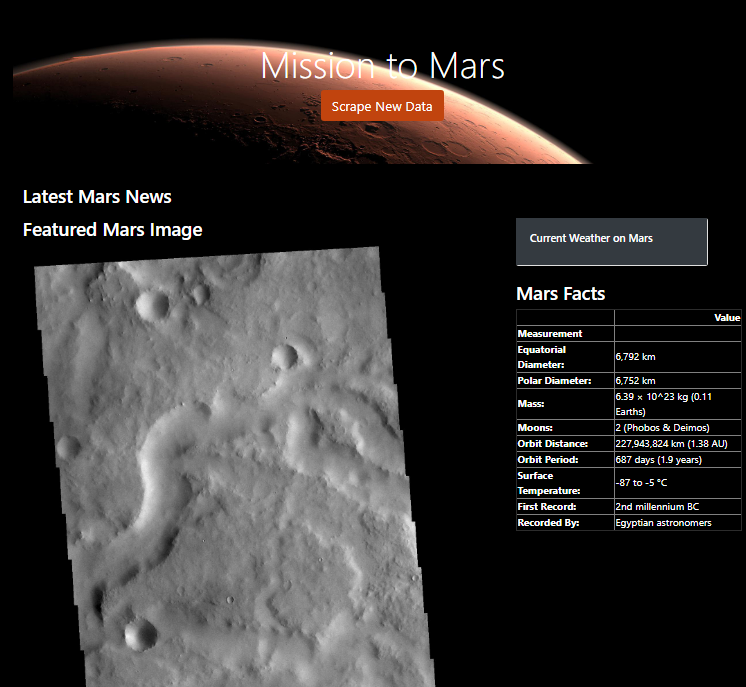
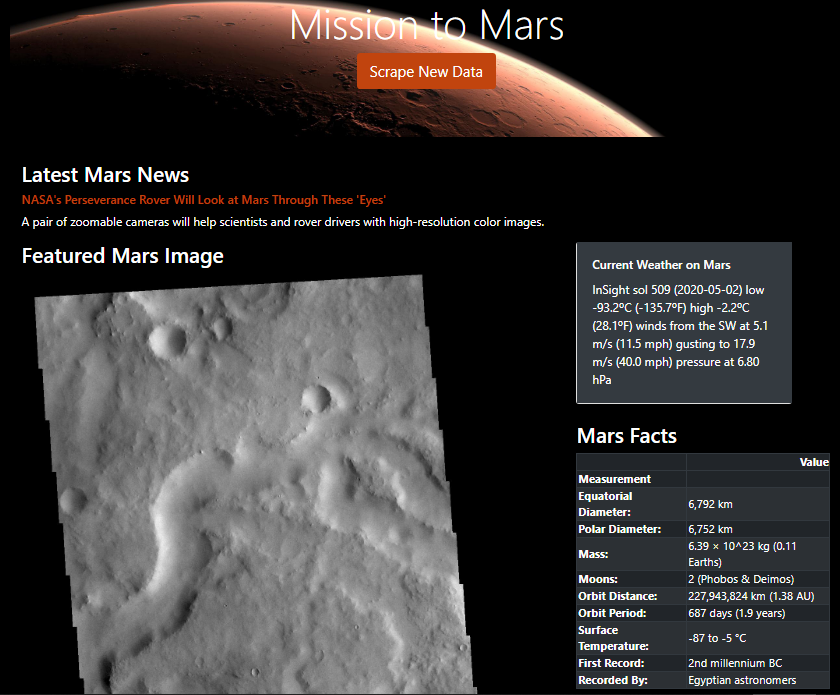
database changes

diff --git a/Missions_to_Mars/templates/index.html b/Missions_to_Mars/templates/index.html
@@ -26,8 +26,8 @@
         <!-- News Section -->
         <div class="container">
             <h3>Latest Mars News</h3>
-            <h6 style="color: #c1440e">{{ mars_data.latest_news_title }}</h6>
-            <p>{{ mars_data.latest_news_paragraph }}</p>
+            <h6 style="color: #c1440e">{{ mars_data.news_title }}</h6>
+            <p>{{ mars_data.news_p }}</p>
         </div>
 
         <div class="container">
@@ -44,7 +44,7 @@
                     <div class="card" style="width: 18rem;">
                         <div class="card-body text-white bg-dark">
                             <h6 class="card-title">Current Weather on Mars</h6>
-                            <p class="card-text">{{ mars_data.tweet }}</p>
+                            <p class="card-text">{{ mars_data.mars_weather }}</p>
                         </div>
 
                     </div>
@@ -78,6 +78,11 @@
                 </div>
             </div>
         </div><!-- Close main container -->
+
+        <script>
+            let tableElement = document.getElementsByClassName("dataframe");
+            tableElement[0].classList.add("table-dark", "table-striped", "table-bordered", "table-hover");
+        </script>
 
         <!-- Bootstrap JS -->
         <script src="https://code.jquery.com/jquery-3.2.1.slim.min.js" integrity="sha384-KJ3o2DKtIkvYIK3UENzmM7KCkRr/rE9/Qpg6aAZGJwFDMVNA/GpGFF93hXpG5KkN"

diff --git a/Missions_to_Mars/application.py b/Missions_to_Mars/application.py
@@ -14,7 +14,7 @@ mongo = PyMongo(app, uri="mongodb://localhost:27017/mars_scraper_app")
 def home():
 
     # Find mars scraped data from the mongo database
-    mars_data = mongo.db.mars_scraped_data.find_one()
+    mars_data = mongo.db.scraped_data.find_one()
     print(mars_data)
 
     # Return template and data
@@ -29,7 +29,7 @@ def scrape():
     mars_data = scrape_mars.scrape()
 
     # Update the Mongo database using update and upsert=True
-    mongo.db.mars_scraped_data.update({}, mars_data, upsert=True)
+    mongo.db.scraped_data.update({}, mars_data, upsert=True)
 
     # Redirect back to home page
     return redirect("/")
